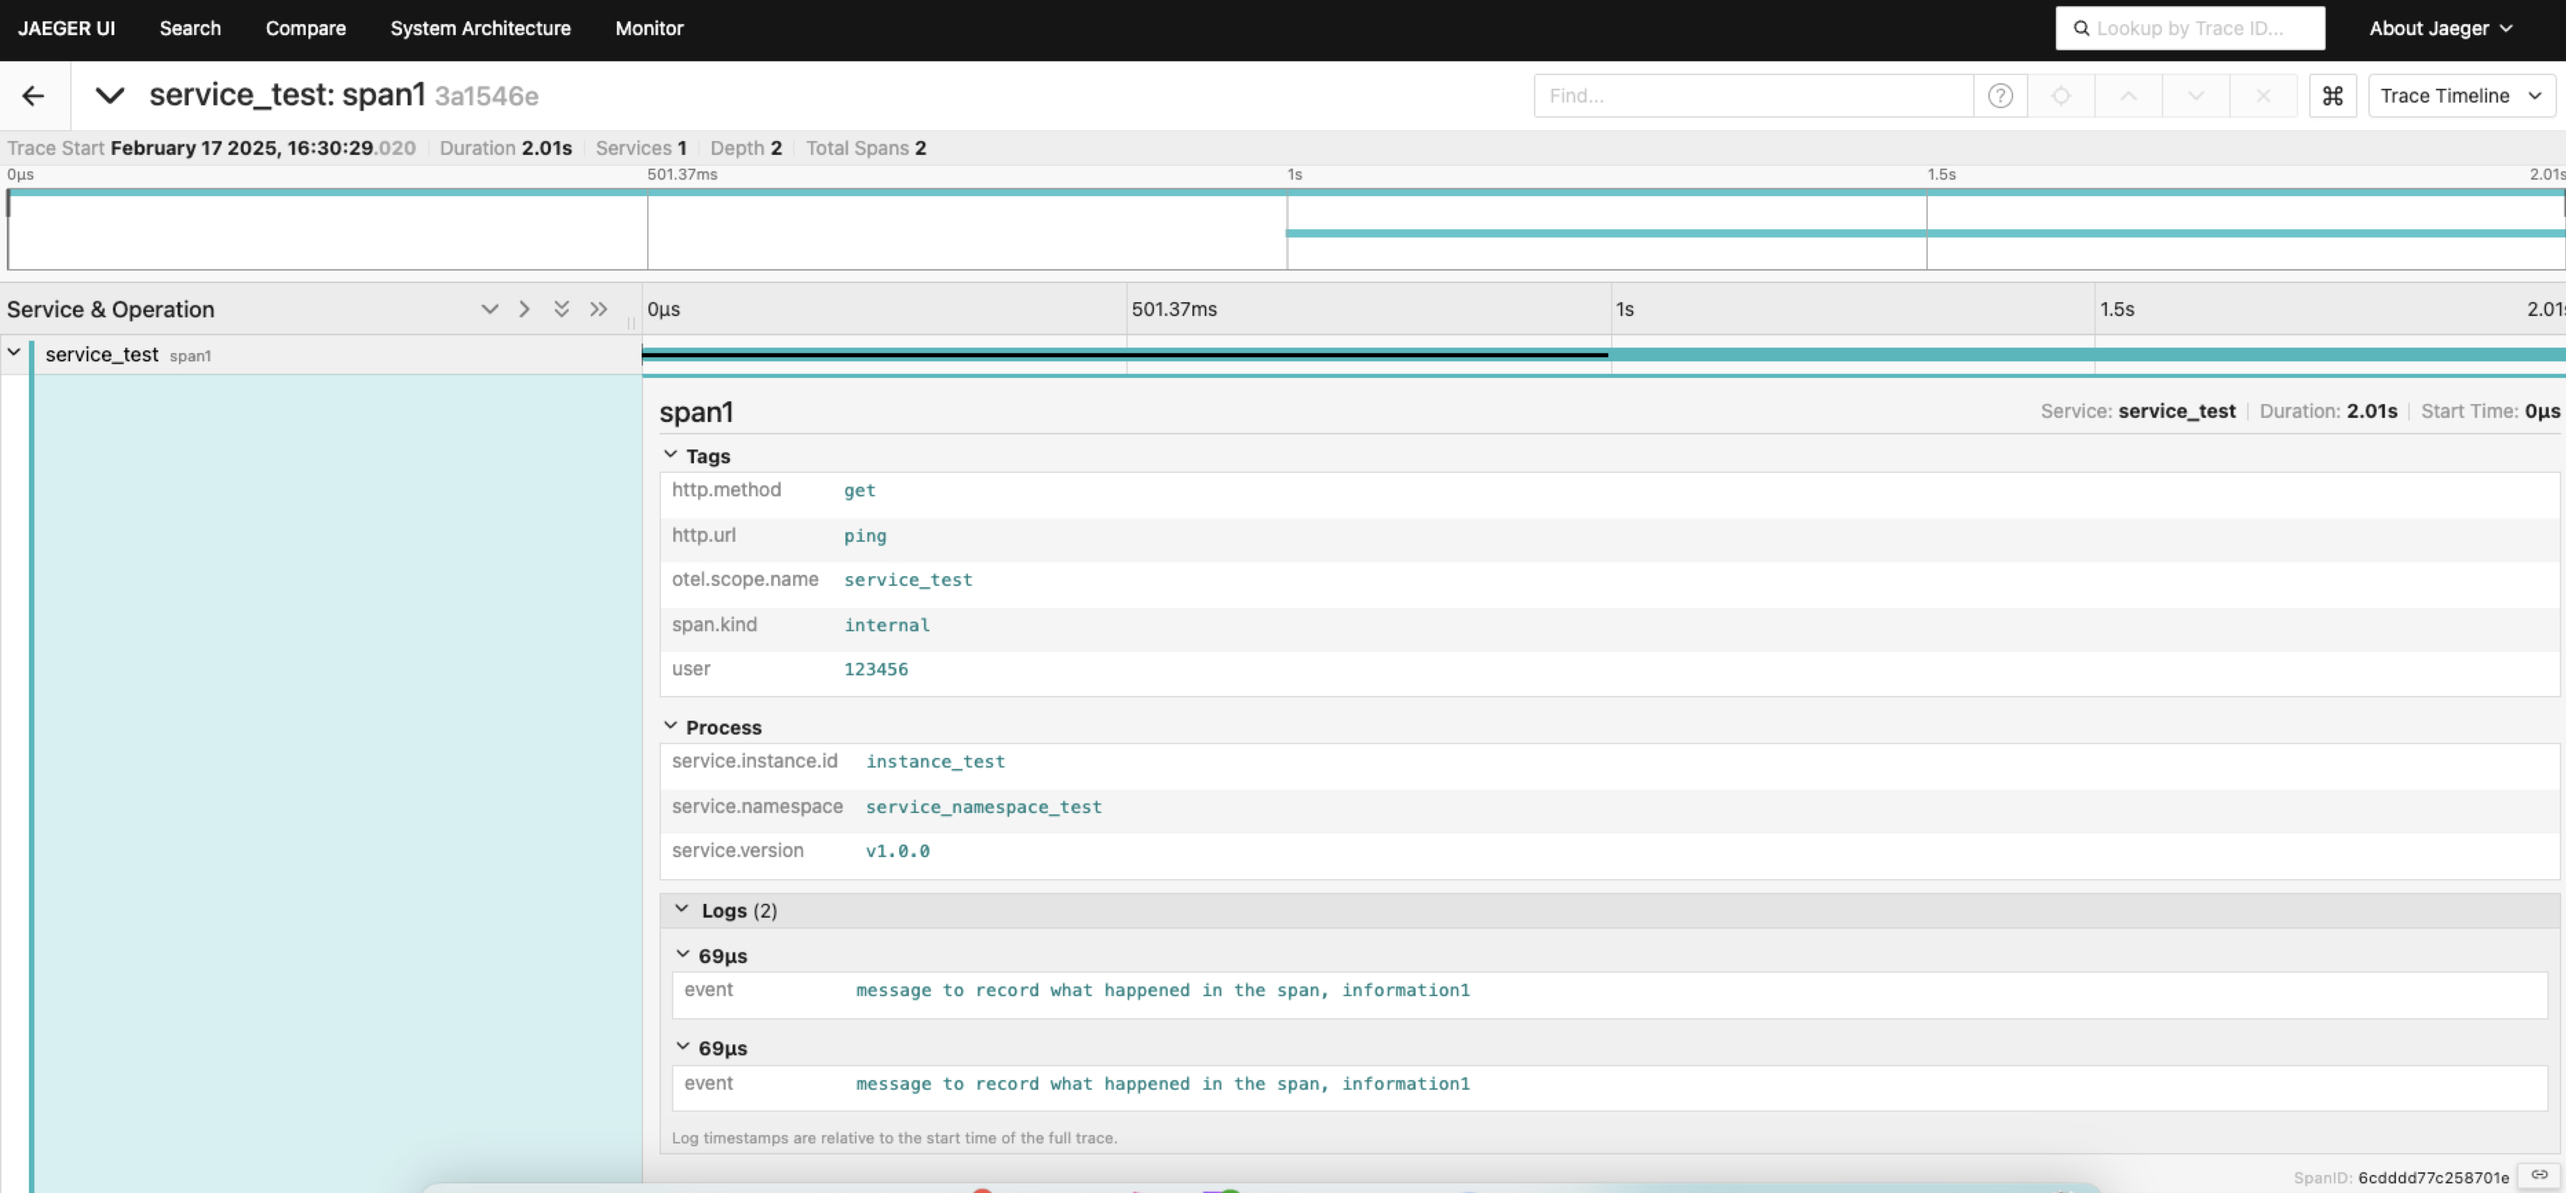
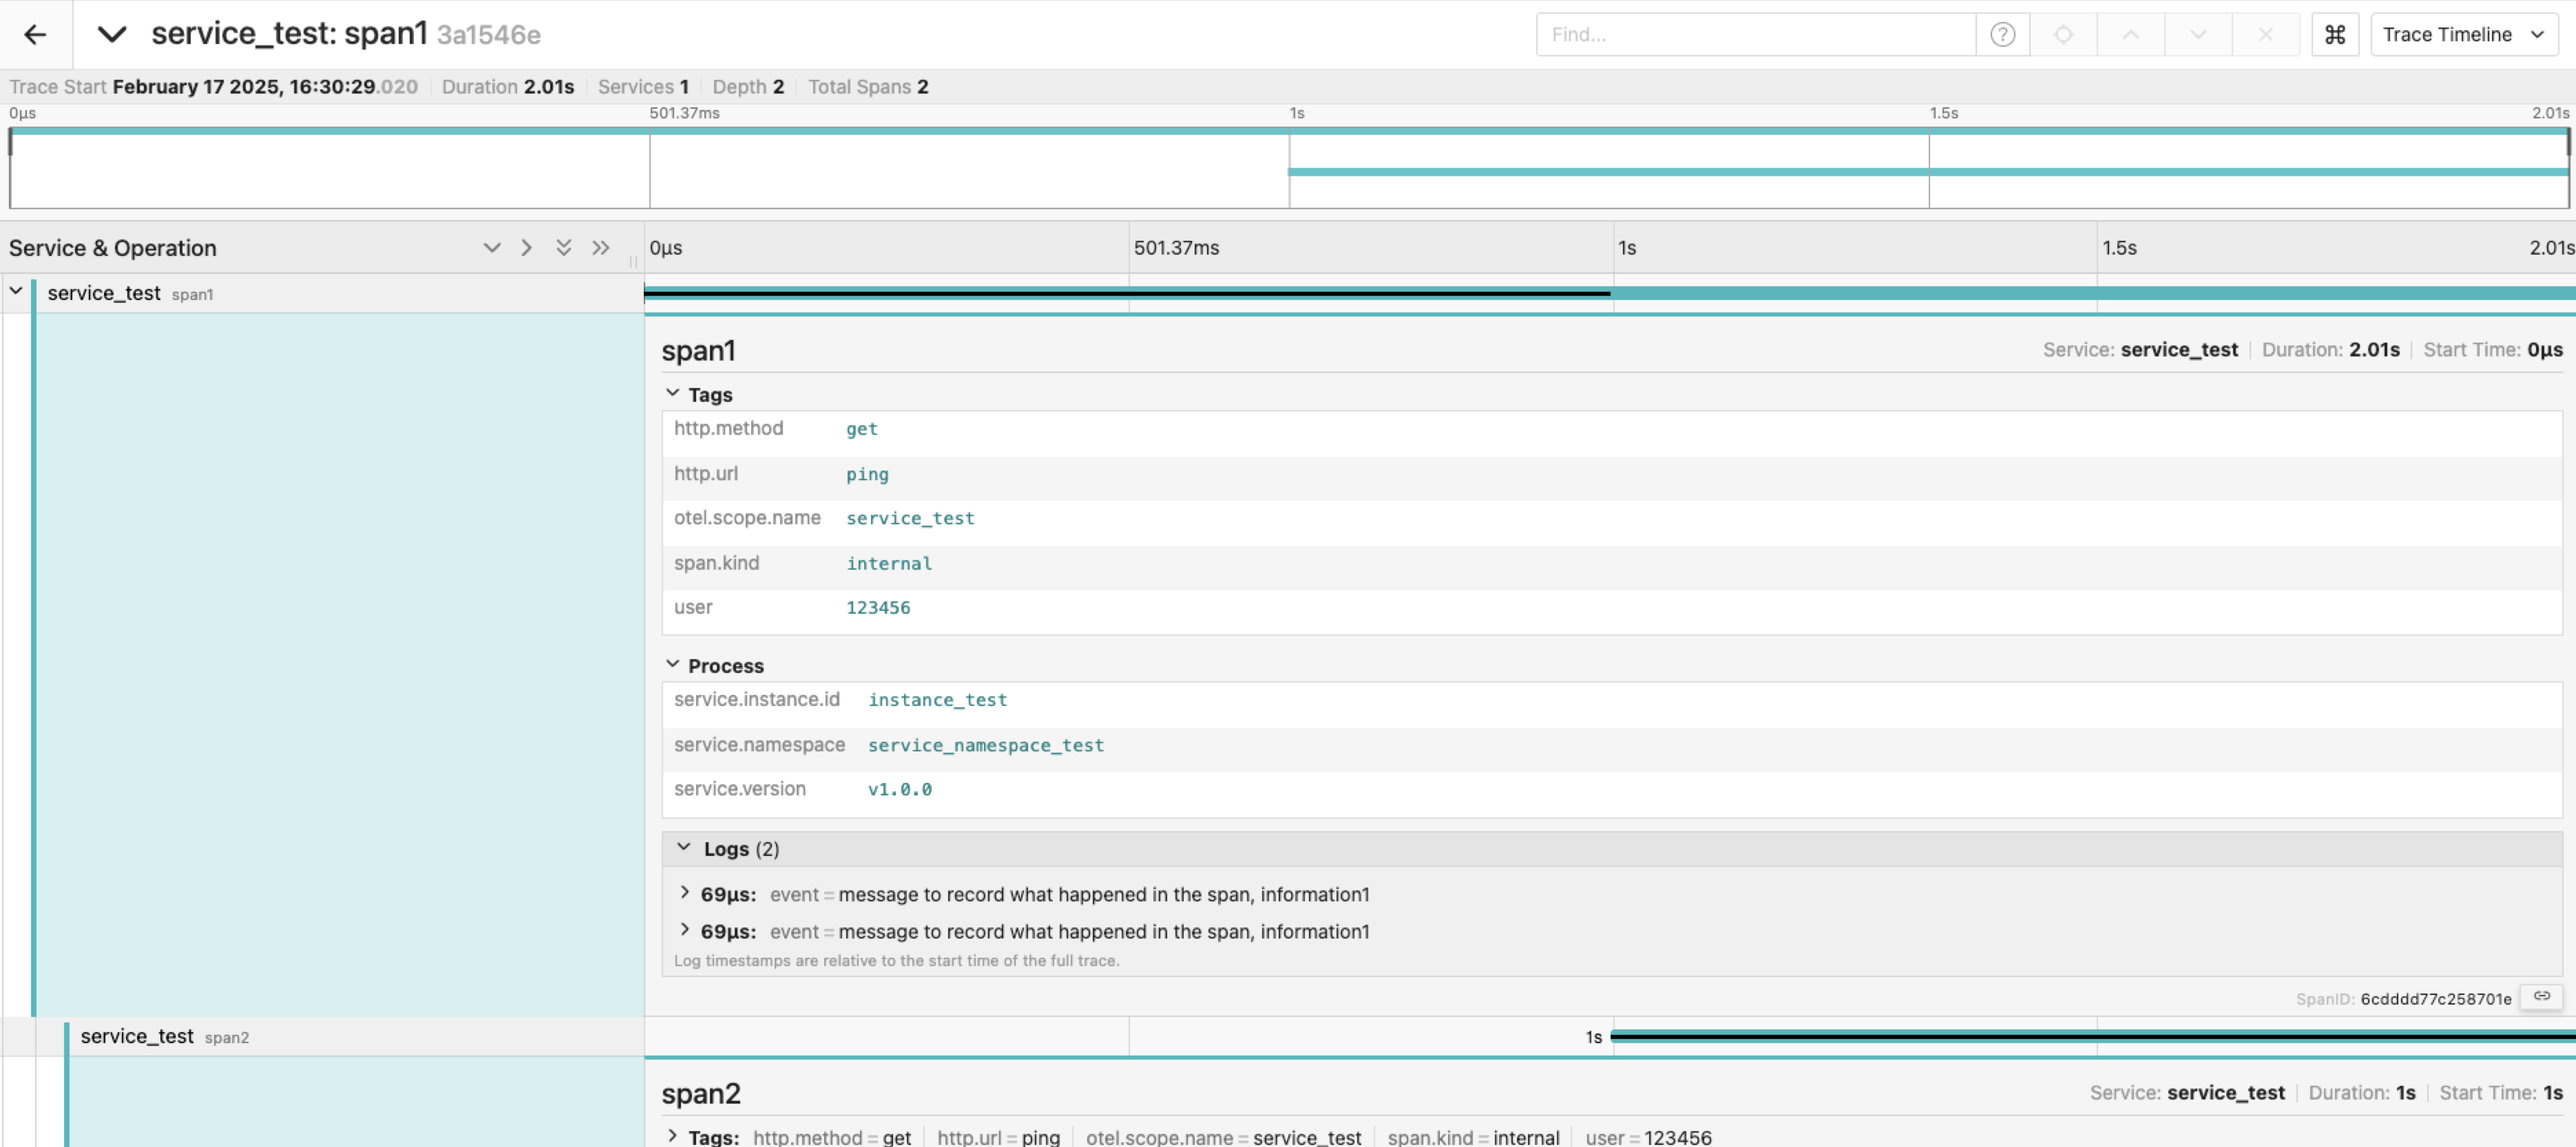
代码优化

Changed region(s): [[0.0, 0.0, 1.0, 0.8422], [0.249, 0.7487, 1.0, 1.0], [0.0, 0.8734, 0.0934, 1.0]]

diff --git a/base/lib/trace/otel.go b/base/lib/trace/otel.go
@@ -19,14 +19,18 @@ import (
 	"go.uber.org/zap"
 )
 
-var innerTracer otelTrace.Tracer
+var tracer otelTrace.Tracer
 
 func GetTracer() otelTrace.Tracer {
-	return innerTracer
+	if tracer == nil {
+		utils.PanicAndPrintIfNotNil(errors.New("Tracer is nil, please init it before use"))
+	}
+	return tracer
 }
 
 // Init 初始化Trace
 func Init(ctx context.Context, traceConfig config.Trace) {
+
 	if traceConfig.Endpoint == "" || traceConfig.ServiceName == "" {
 		utils.PanicAndPrintIfNotNil(errors.New("Init trace config is empty"))
 	}
@@ -36,16 +40,17 @@ func Init(ctx context.Context, traceConfig config.Trace) {
 		utils.PanicAndPrintIfNotNil(err)
 		return
 	}
+
+	// 设置全局的Provider
 	otel.SetTracerProvider(tracerProvider)
 	// 设置全局传播器
 	otel.SetTextMapPropagator(propagation.NewCompositeTextMapPropagator(propagation.TraceContext{}, propagation.Baggage{}))
 
-	innerTracer = otel.Tracer(traceConfig.ServiceName)
+	tracer = otel.Tracer(traceConfig.ScopeName)
 
 	go func() {
 		defer utils.RecoverWithFmt()
 
-		//todo 优雅处理shutdown
 		<-ctx.Done()
 		err := tracerProvider.Shutdown(ctx)
 		if err != nil {
@@ -59,12 +64,12 @@ func Init(ctx context.Context, traceConfig config.Trace) {
 
 func newTraceProvider(ctx context.Context, traceConfig config.Trace) (*trace.TracerProvider, error) {
 	options := make([]otlptracehttp.Option, 0)
-	options = append(options, otlptracehttp.WithEndpoint(traceConfig.Endpoint)) // 设置OTEL服务地址
+	options = append(options, otlptracehttp.WithEndpoint(traceConfig.Endpoint))
 	if traceConfig.Insecure {
 		options = append(options, otlptracehttp.WithInsecure())
 	}
 
-	logger.Info(ctx, "newTraceProvider with options", zap.Any("options", options))
+	logger.Info(ctx, "newTraceProvider new exporter with options", zap.Any("options", options))
 	exporter, err := otlptracehttp.New(ctx, options...)
 	if err != nil {
 		return nil, err
@@ -83,6 +88,7 @@ func newTraceProvider(ctx context.Context, traceConfig config.Trace) (*trace.Tra
 		attributes = append(attributes, semconv.ServiceVersionKey.String(traceConfig.ServiceVersion))
 	}
 
+	logger.Info(ctx, "newTraceProvider new resource with options", zap.Any("options", options))
 	res, err := resource.New(ctx, resource.WithAttributes(attributes...))
 	if err != nil {
 		return nil, err

diff --git a/base/lib/trace/otel_test.go b/base/lib/trace/otel_test.go
@@ -2,7 +2,6 @@ package trace
 
 import (
 	"context"
-	"go.opentelemetry.io/otel/attribute"
 	"net/http"
 	"testing"
 	"time"
@@ -11,6 +10,7 @@ import (
 	"go-web-template/base/lib/logger"
 
 	"go.opentelemetry.io/otel"
+	"go.opentelemetry.io/otel/attribute"
 	"go.opentelemetry.io/otel/propagation"
 	"go.uber.org/zap"
 )
@@ -22,6 +22,7 @@ func TestOtel(t *testing.T) {
 	logger.Init("TestOtel", configStruct.LoggerConfig)
 
 	Init(context.Background(), configStruct.Otel.Trace)
+
 	go run()
 
 	time.Sleep(time.Second * 10)
@@ -46,17 +47,19 @@ func run() {
 
 	time.Sleep(time.Second)
 
-	//模拟 http 调用，通过Header传递信息
-	mockRequestHttp(newRequest)
+	mockRequestHttpServer(newRequest)
 }
 
-func mockRequestHttp(req *http.Request) {
+// mockRequestHttp 模拟 http 调用，通过Header传递信息
+func mockRequestHttpServer(req *http.Request) {
 	// 模拟从Http Header中读取数据
 	ctx2 := otel.GetTextMapPropagator().Extract(context.Background(), propagation.HeaderCarrier(req.Header))
 	_, span2 := GetTracer().Start(ctx2, "span2")
+	defer span2.End()
+
 	span2.SetAttributes(attribute.String("http.method", "get"))
 	span2.SetAttributes(attribute.String("http.url", "ping"))
 	span2.SetAttributes(attribute.String("user", "123456"))
-	defer span2.End()
+
 	time.Sleep(time.Second)
 }

diff --git a/base/lib/config/config_test.go b/base/lib/config/config_test.go
@@ -95,6 +95,7 @@ func TestParseConfig(t *testing.T) {
 	assert.Equal(t, "test", conf.Kafka["test-sasl_plaintext"].Writers[0].Name)
 	assert.Equal(t, "test", conf.Kafka["test-sasl_plaintext"].Readers[0].Name)
 
+	assert.Equal(t, "go-web-template", conf.Otel.Trace.ScopeName)
 	assert.Equal(t, "127.0.0.1:4318", conf.Otel.Trace.Endpoint)
 	assert.Equal(t, true, conf.Otel.Trace.Insecure)
 	assert.Equal(t, "service_namespace_test", conf.Otel.Trace.ServiceNamespace)

diff --git a/base/lib/config/config.go b/base/lib/config/config.go
@@ -147,6 +147,8 @@ type Trace struct {
 	// Insecure 是否忽略证书
 	Insecure bool `mapstructure:"insecure"`
 
+	// ScopeName 命名空间名字
+	ScopeName string `mapstructure:"scope_name"`
 	// ServiceNamespace 服务命名空间
 	ServiceNamespace string `mapstructure:"service_namespace"`
 	// ServiceName 服务名
